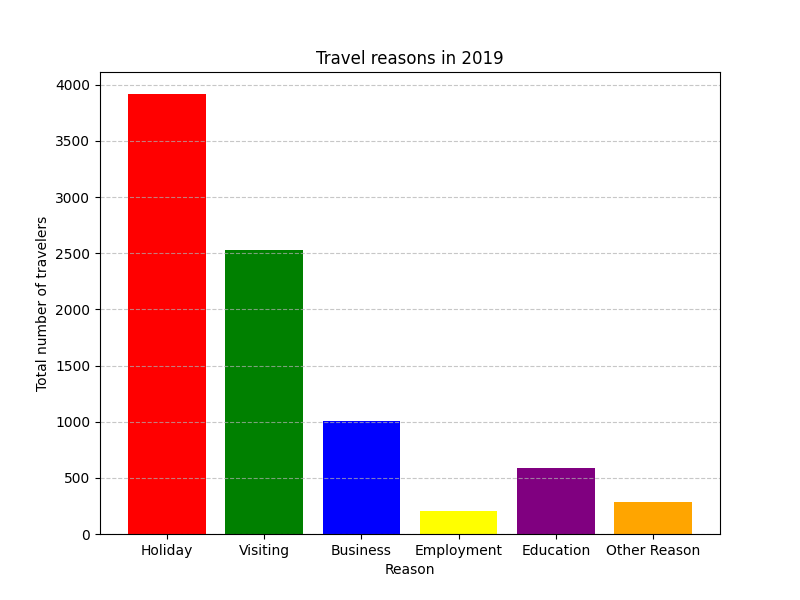
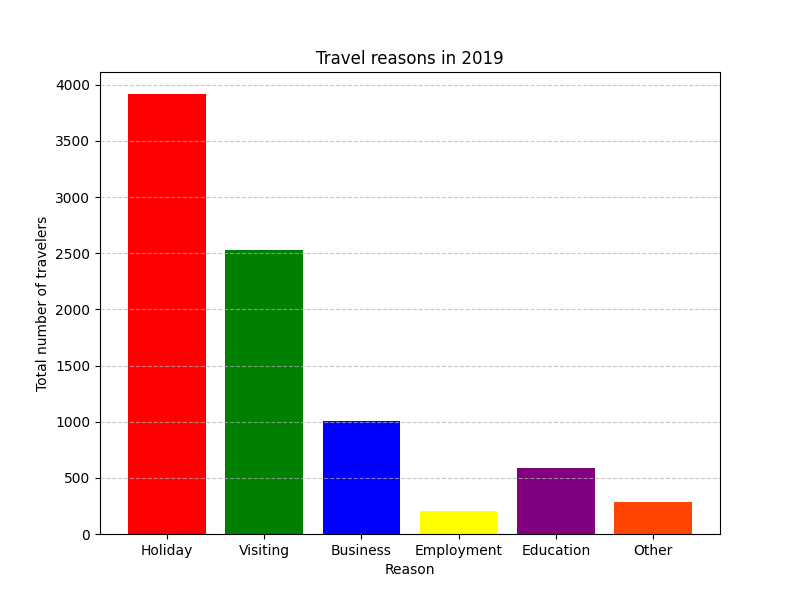
Top 5 Countries

Changed region(s): [[0.75, 0.81, 0.875, 0.93]]

diff --git a/main.py b/main.py
@@ -46,6 +46,14 @@ total_2024 = new_df[trips_2024_heading].sum()
 print(f'Total number of travelers in 2019: {total_2019}')
 print(f'Total number of travelers in 2024: {total_2024}')
 
+# Top 5 countries
+top5_2019 = new_df.sort_values(trips_2019_heading, ascending=False)['Country'].head(5)
+top5_2024 = new_df.sort_values(trips_2024_heading, ascending=False)['Country'].head(5)
+
+# Print top 5 countries
+print(f"The most tourists in 2019 came from: \n{top5_2019}")
+print(f"The most tourists in 2024 came from: \n{top5_2024}")
+
 # Create a bar chart for tourism.csv
 plt.figure(figsize=(8, 6))
 plt.bar(['2019', '2024'], [total_2019, total_2024], color=['blue', 'orange'])
@@ -77,7 +85,7 @@ total_other_2024 = new_reason_df.loc[5, trips_2024_heading]
 
 # Create a bar chart for reasons_for_travel.csv in 2019
 plt.figure(figsize=(8, 6))
-plt.bar(['Holiday', 'Visiting', 'Business', 'Employment', 'Education', 'Other Reason'], [total_holiday_2019, total_visiting_2019, total_business_2019, total_employment_2019, total_education_2019, total_other_2019], color=['red','green','blue','yellow','purple','orange'])
+plt.bar(['Holiday', 'Visiting', 'Business', 'Employment', 'Education', 'Other'], [total_holiday_2019, total_visiting_2019, total_business_2019, total_employment_2019, total_education_2019, total_other_2019], color=['red','green','blue','yellow','purple','orangered'])
 plt.xlabel('Reason')
 plt.ylabel('Total number of travelers')
 # plt.ylim(6000, 8000)
@@ -88,7 +96,7 @@ plt.show()
 
 # Create a bar chart for reasons_for_travel.csv in 2019
 plt.figure(figsize=(8, 6))
-plt.bar(['Holiday', 'Visiting', 'Business', 'Employment', 'Education', 'Other Reason'], [total_holiday_2024, total_visiting_2024, total_business_2024, total_employment_2024, total_education_2024, total_other_2024], color=['red','green','blue','yellow','purple','orange'])
+plt.bar(['Holiday', 'Visiting', 'Business', 'Employment', 'Education', 'Other'], [total_holiday_2024, total_visiting_2024, total_business_2024, total_employment_2024, total_education_2024, total_other_2024], color=['lightcoral','palegreen','paleturquoise','palegoldenrod','violet','lightsalmon'])
 plt.xlabel('Reason')
 plt.ylabel('Total number of travelers')
 # plt.ylim(6000, 8000)
@@ -98,14 +106,14 @@ plt.savefig('Travelers_Reasons_2024.png')
 plt.show()
 
 # Create a bar chart for reasons_for_travel.csv comparing 2019 and 2024
-plt.figure(figsize=(8, 6))
-plt.bar(['Holiday 2019', 'Holiday 2024', 'Visiting', 'Business', 'Employment', 'Education', 'Other Reason'], [total_holiday_2024, total_visiting_2024, total_business_2024, total_employment_2024, total_education_2024, total_other_2024], color=['red','green','blue','yellow','purple','orange'])
+plt.figure(figsize=(22, 6))
+plt.bar(['Holiday 2019', 'Holiday 2024', 'Visiting 2019', 'Visiting 2024', 'Business 2019', 'Business 2024', 'Employment 2019', 'Employment 2024', 'Education 2019', 'Education 2024', 'Other 2019', 'Other 2024'], [total_holiday_2019, total_holiday_2024, total_visiting_2019, total_visiting_2024, total_business_2019, total_business_2024, total_employment_2019, total_employment_2024, total_education_2019, total_education_2024, total_other_2019, total_other_2024], color=['red','lightcoral','green','palegreen','blue','paleturquoise','goldenrod','palegoldenrod','purple','violet','orangered','lightsalmon'])
 plt.xlabel('Reason')
 plt.ylabel('Total number of travelers')
 # plt.ylim(6000, 8000)
-plt.title('Travel reasons in 2024')
+plt.title('Travel reasons in 2019 and 2024')
 plt.grid(axis='y', linestyle='--', alpha=0.7)
-plt.savefig('Travelers_Reasons_2024.png')
+plt.savefig('Travelers_Reasons_Comparison.png')
 plt.show()
 
 # Find the total spending in 2019 and 2024
